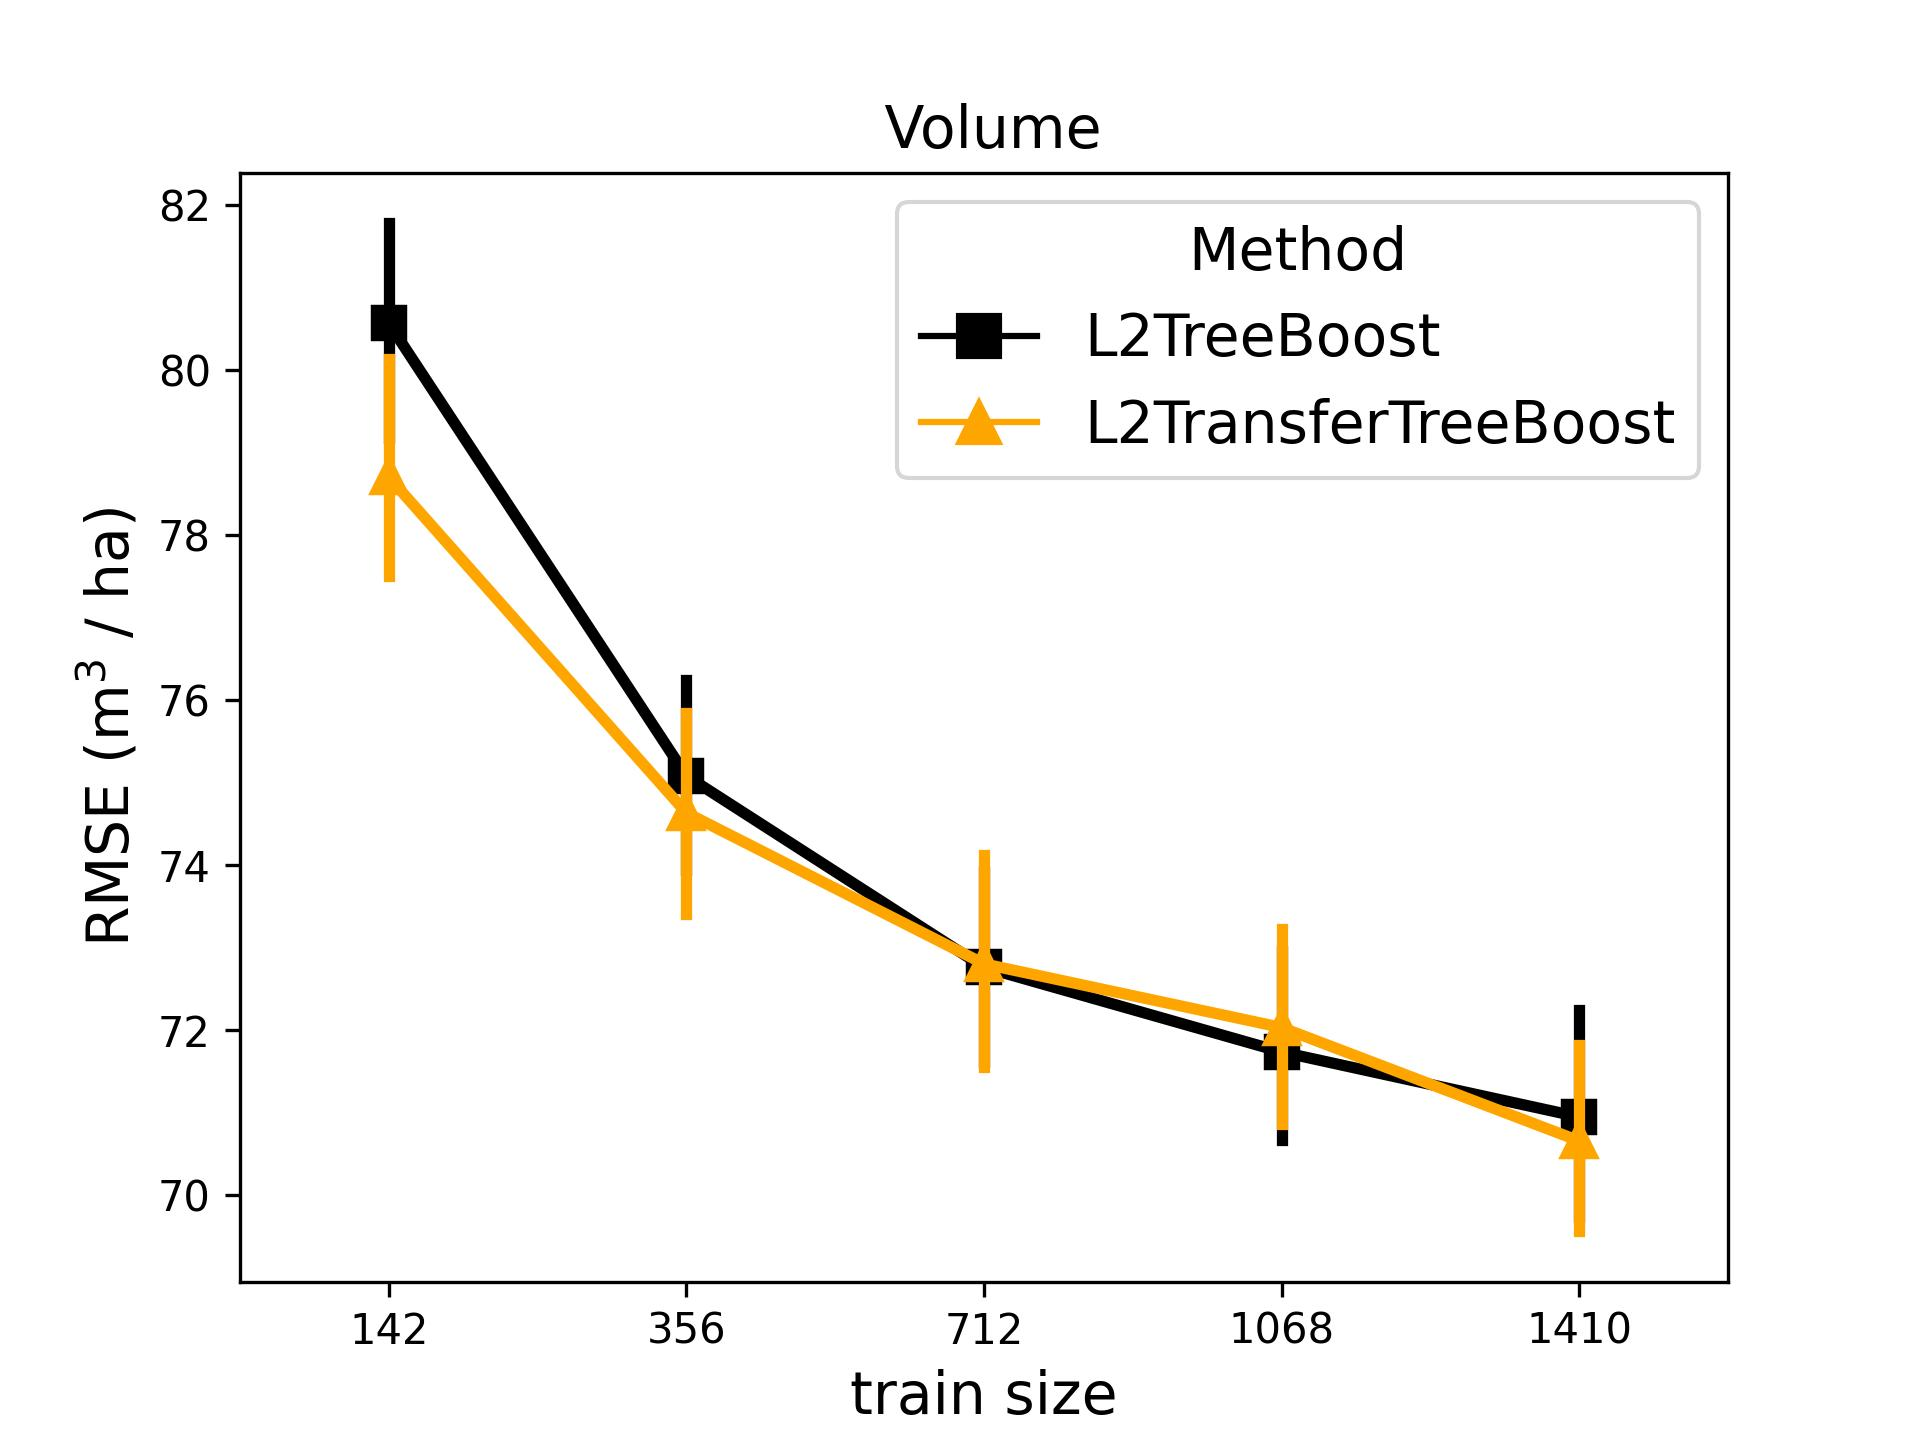
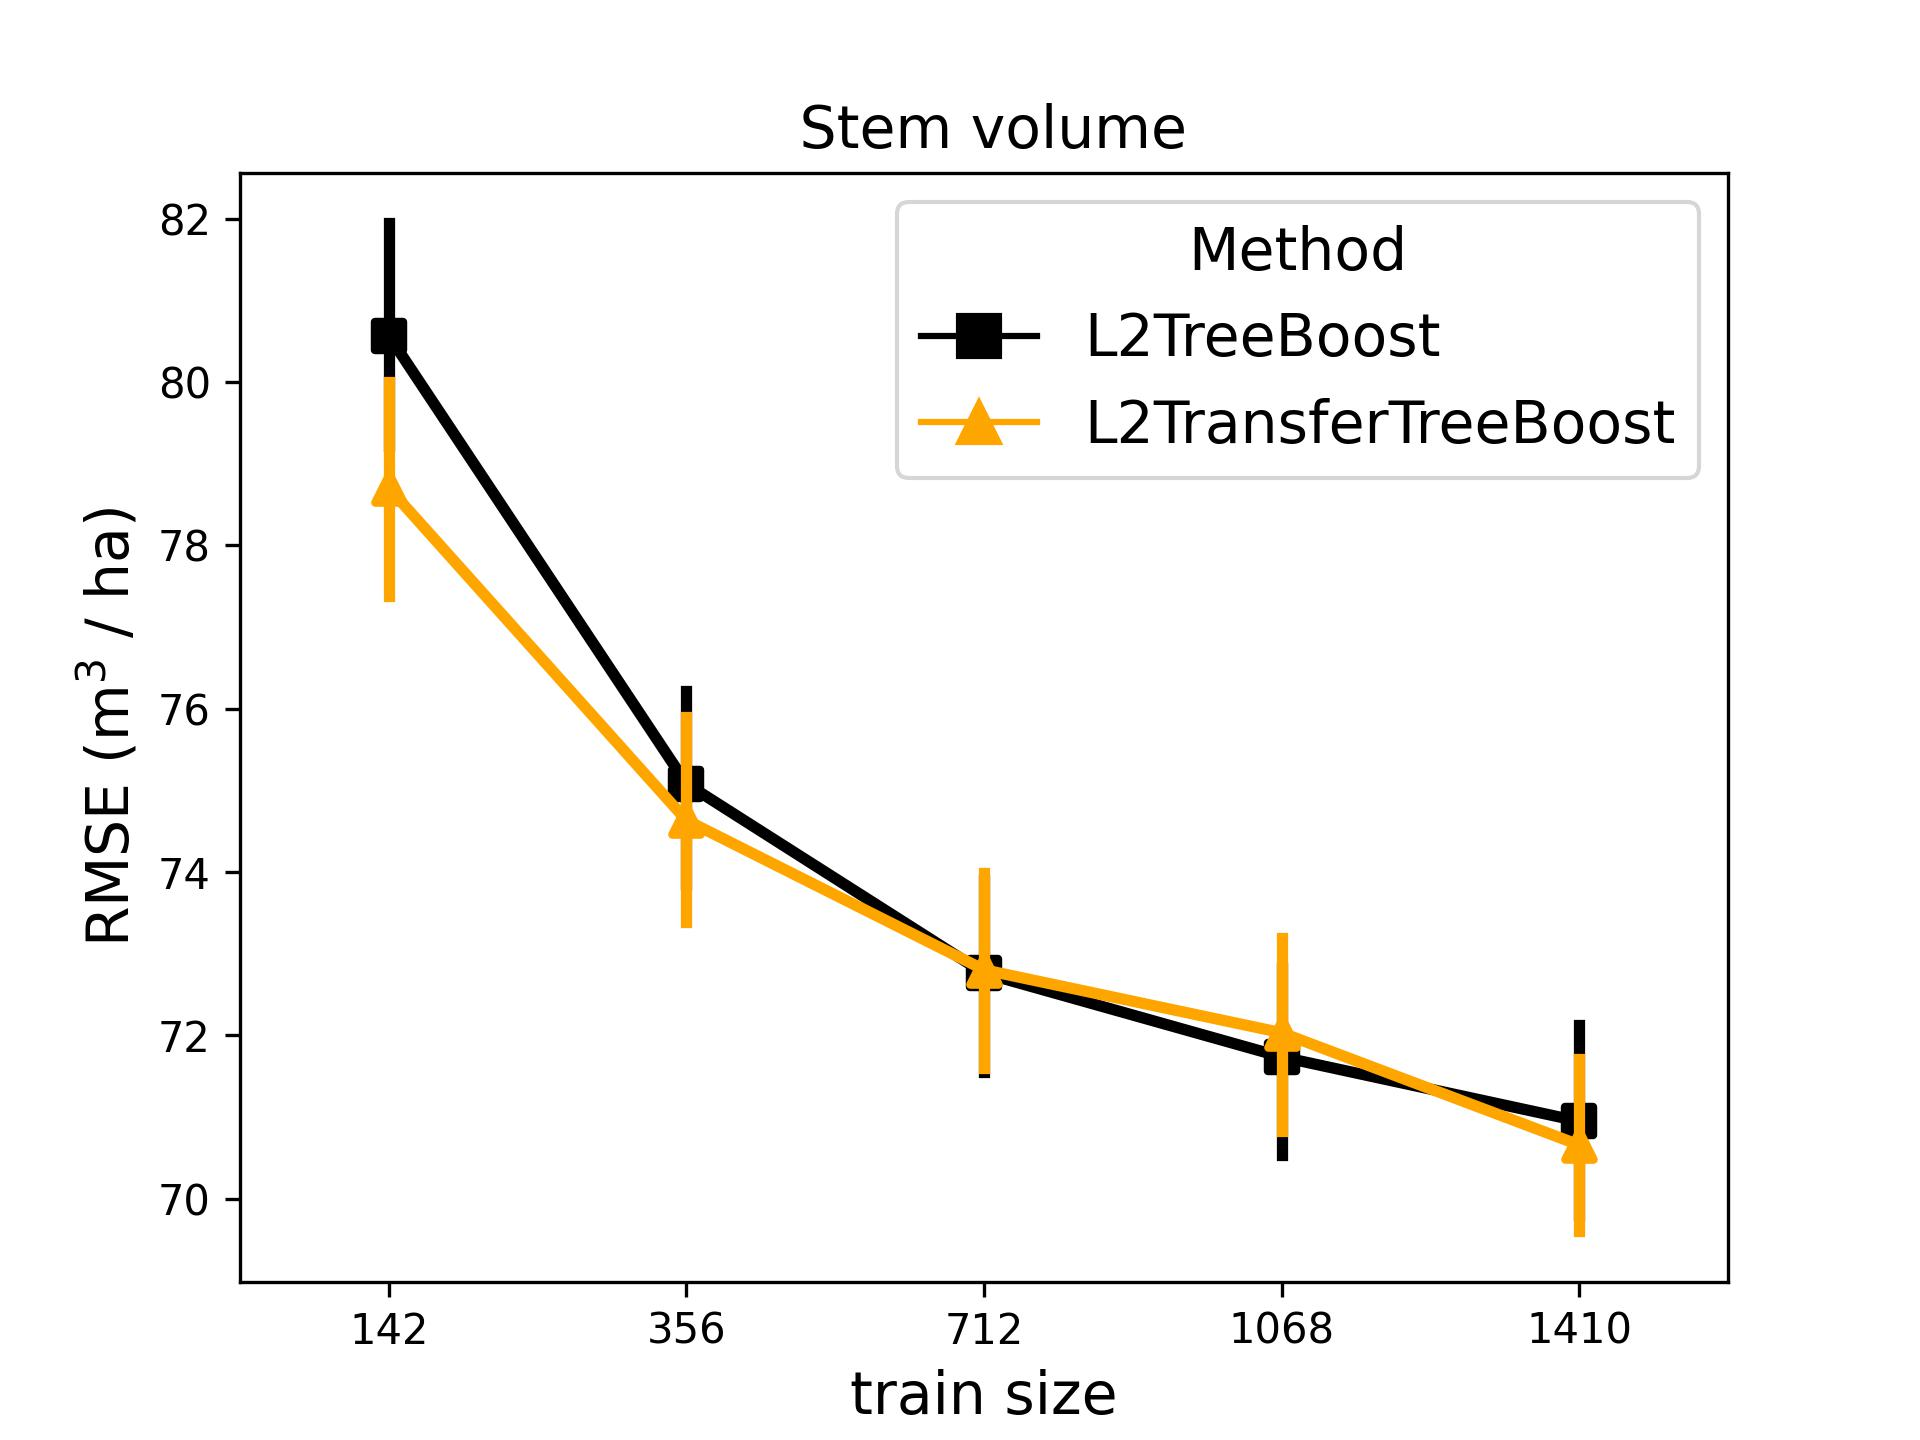
small

diff --git a/boosting/final_viz.py b/boosting/final_viz.py
@@ -9,17 +9,17 @@ import os
 
 VIZ_FOLDER = 'viz\optimal_viz'
 RES_FOLDER = 'res\optimal_res'
-TARGET_DATA = 'Lettland'
+TARGET_DATA = 'Norrland'
 RESPONSE_VARIABLE = 'Dgv'
 
 if RESPONSE_VARIABLE == 'Dgv':
-    label_to_use = 'Average diameter'
+    label_to_use = 'Stem diameter'
     unit = 'cm'
 if RESPONSE_VARIABLE == 'Hgv':
-    label_to_use = 'Average height'
+    label_to_use = 'Tree height'
     unit = 'm'
 if RESPONSE_VARIABLE == 'Volume':
-    label_to_use = 'Volume'
+    label_to_use = 'Stem volume'
     unit = 'm$^3$ / ha'
 
 if TARGET_DATA == 'Norrland':
@@ -51,7 +51,7 @@ def create_plots(data, data_notransfer):
     custom_palette = {"L2TreeBoost": "black", "L2TransferTreeBoost": "orange"}
     custom_markers = ["s", "^"]
     sns.pointplot(data=datavis, x='train_size', y='test_rmse', hue = 'method', 
-                  palette=custom_palette, markers = custom_markers)
+                  palette=custom_palette, markers = custom_markers, dodge=True)
     
     custom_handles = [
     plt.Line2D([0], [0], marker='s', color='black', linestyle='-', markersize=10, label='L2TreeBoost'),
